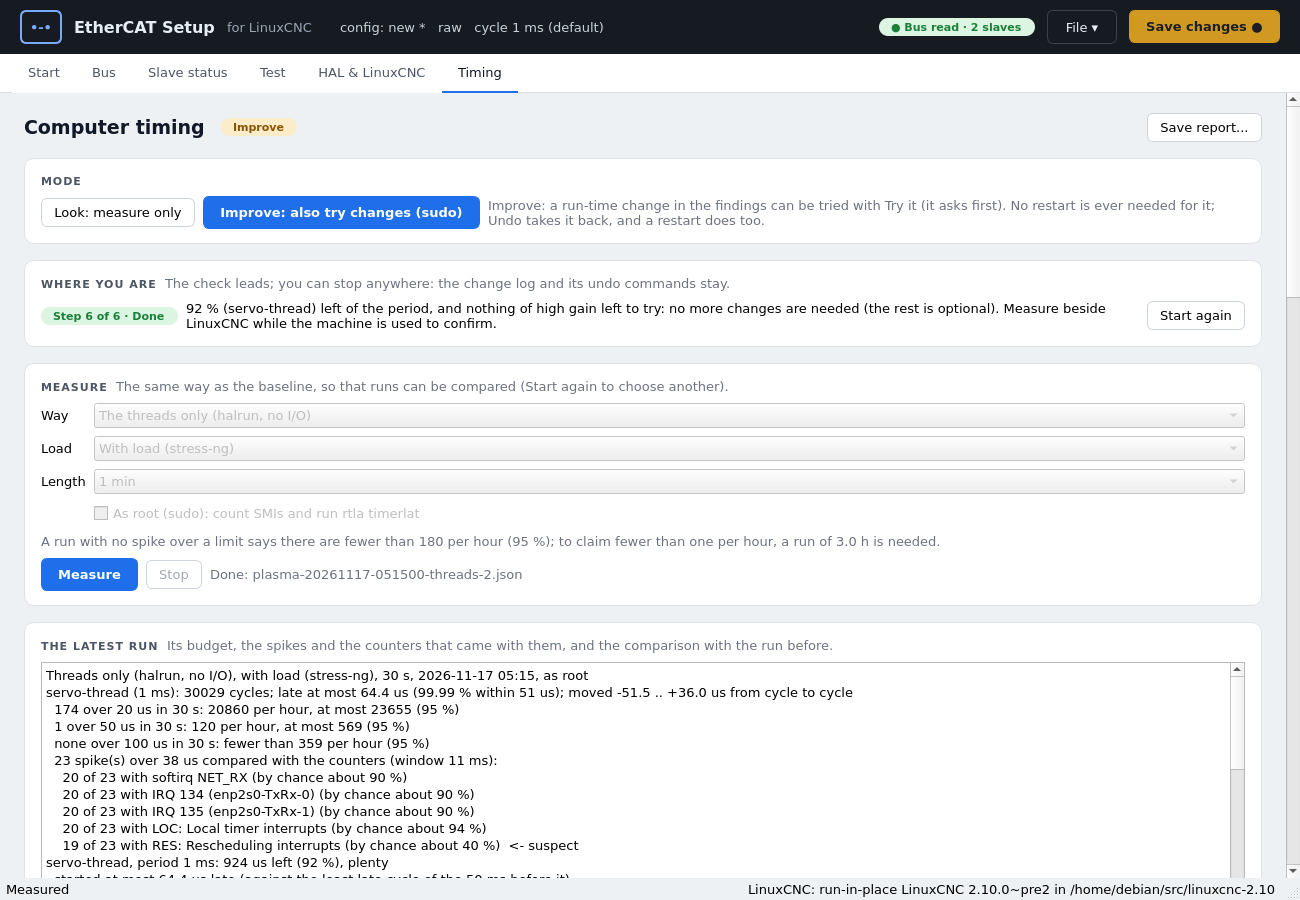
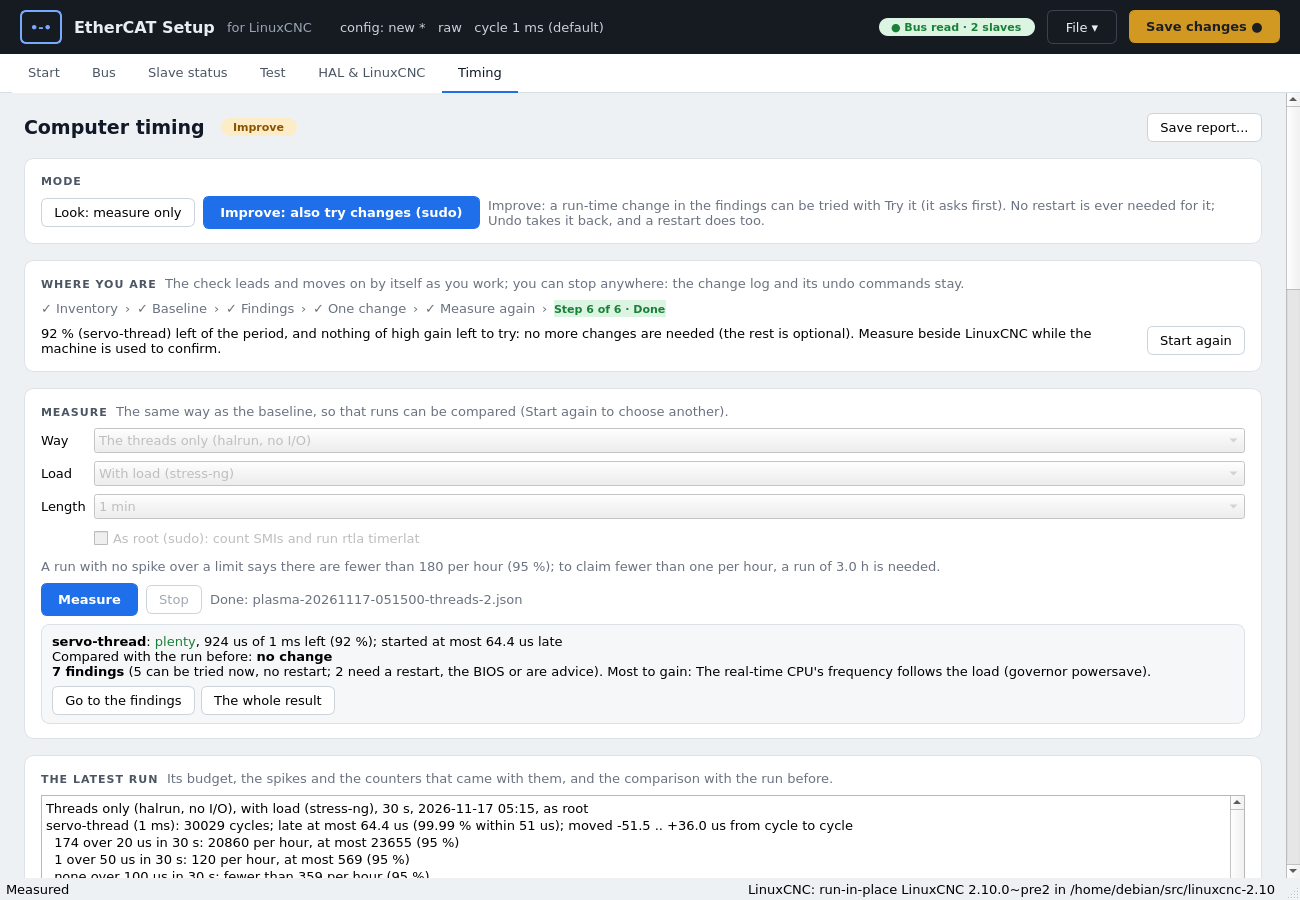
Timing tab: every step shown, a summary under Measure; dark mode check boxes visible
From the user's try on a real screen: black check boxes on the dark cards
could hardly be seen (Fusion fills them with the near-black base colour):
IndicatorStyle draws check boxes and radio buttons with a light edge, and
filled in the accent colour when on, in dark mode only. Where you are now
shows all six steps, the ones done ticked and the present one marked (still
not buttons: the check moves on by itself). A few lines under Measure sum
up the latest run (time left per thread, the comparison, the findings
counted with the one of most gain named) with Go to the findings and The
whole result.

diff --git a/ecatsetup/gui.py b/ecatsetup/gui.py
@@ -25,8 +25,9 @@ import re
 import sys
 import time
 
-from PyQt5.QtCore import QLocale, QSize, QThread, QTimer, Qt, pyqtSignal
-from PyQt5.QtGui import QBrush, QColor, QFont, QFontDatabase, QKeySequence, QPainter, QPalette, QPen
+from PyQt5.QtCore import QLocale, QPointF, QSize, QThread, QTimer, Qt, pyqtSignal
+from PyQt5.QtGui import (QBrush, QColor, QFont, QFontDatabase, QKeySequence, QPainter, QPalette, QPen,
+                         QPolygonF)
 from PyQt5.QtWidgets import (
     QAbstractItemView, QAction, QActionGroup, QApplication, QCheckBox, QComboBox, QDialog,
     QDialogButtonBox,
@@ -34,7 +35,7 @@ from PyQt5.QtWidgets import (
     QFrame, QGridLayout, QHBoxLayout, QHeaderView, QLabel, QLineEdit, QListWidget,
     QListWidgetItem, QMainWindow, QMenu, QMessageBox, QPlainTextEdit, QProgressBar, QPushButton,
     QScrollArea,
-    QSizePolicy, QSpinBox, QStackedWidget, QStyledItemDelegate, QTabBar, QTableWidget,
+    QProxyStyle, QSizePolicy, QSpinBox, QStackedWidget, QStyle, QStyledItemDelegate, QTabBar, QTableWidget,
     QTableWidgetItem, QToolButton, QVBoxLayout, QWidget, QCompleter)
 
 from . import (config, dcinfo, diagnose, drivetest, esi, events, fromlcec, guidance, halcheck, halpins, homing,
@@ -98,6 +99,7 @@ QFrame#nav QTabBar::tab {{ background: {surface}; padding: 10px 16px; border: no
               border-bottom: 2px solid transparent; color: {text2}; }}
 QFrame#nav QTabBar::tab:selected {{ border-bottom: 2px solid {accent}; color: {text1}; }}
 QFrame#card {{ background: {surface}; border: 1px solid {border}; border-radius: 10px; }}
+QFrame#summaryBox {{ background: {greycard}; border: 1px solid {border}; border-radius: 8px; }}
 QFrame#card[tone="red"] {{ border: 1px solid {redborder}; background: {redcard}; }}
 QFrame#card[tone="amber"] {{ border: 1px solid {amberborder}; background: {ambercard}; }}
 QFrame#card[tone="grey"] {{ background: {greycard}; }}
@@ -189,8 +191,10 @@ def apply_theme(theme):
     if _default_style is None:
         _default_style = (app.style().objectName(), QPalette(app.palette()))
     want = _default_style[0] if theme == "light" else "fusion"
-    if app.style().objectName().lower() != want.lower():
-        app.setStyle(QStyleFactory.create(want) or app.style())
+    proxied = isinstance(app.style(), IndicatorStyle)
+    if app.style().objectName().lower() != want.lower() or proxied != (theme == "dark"):
+        base = QStyleFactory.create(want) or QStyleFactory.create(app.style().objectName())
+        app.setStyle(IndicatorStyle(base) if theme == "dark" else base)
     if theme == "light":
         app.setPalette(_default_style[1])     # as the window was before any mode
         return
@@ -212,6 +216,60 @@ def apply_theme(theme):
     for role in (QPalette.WindowText, QPalette.Text, QPalette.ButtonText):
         pal.setColor(QPalette.Disabled, role, QColor(c["disabled"]))
     app.setPalette(pal)
+
+
+class IndicatorStyle(QProxyStyle):
+    """Fusion with check boxes and radio buttons that show on a dark
+    surface: Fusion fills them with the base colour (near black) and draws
+    their edge darker than the window, so on the dark cards they were black
+    on dark grey. Light mode keeps the platform's own."""
+
+    def __init__(self, base):
+        super().__init__(base)
+        self.setObjectName(base.objectName())
+
+    def drawPrimitive(self, element, option, painter, widget=None):
+        if element not in (QStyle.PE_IndicatorCheckBox, QStyle.PE_IndicatorRadioButton,
+                           QStyle.PE_IndicatorItemViewItemCheck):
+            return super().drawPrimitive(element, option, painter, widget)
+        c = THEMES["dark"]
+        on = bool(option.state & QStyle.State_On)
+        partly = bool(option.state & QStyle.State_NoChange)
+        enabled = bool(option.state & QStyle.State_Enabled)
+        r = option.rect.adjusted(1, 1, -1, -1)
+        side = min(r.width(), r.height())
+        r.setSize(QSize(side, side))
+        r.moveCenter(option.rect.center())
+        painter.save()
+        painter.setRenderHint(QPainter.Antialiasing)
+        edge = QColor(c["text3"] if enabled else c["boxborder"])
+        fill = QColor(c["accent"] if (on or partly) and enabled else
+                      c["accentdis"] if (on or partly) else c["hover"])
+        if on or partly:
+            edge = fill
+        elif option.state & QStyle.State_MouseOver and enabled:
+            edge = QColor(c["text2"])
+        painter.setPen(QPen(edge, 1.5))
+        painter.setBrush(fill)
+        if element == QStyle.PE_IndicatorRadioButton:
+            painter.drawEllipse(r)
+            if on:
+                painter.setPen(Qt.NoPen)
+                painter.setBrush(QColor("#ffffff"))
+                d = side * 0.36
+                painter.drawEllipse(r.center(), d / 2 + 0.5, d / 2 + 0.5)
+        else:
+            painter.drawRoundedRect(r, 3, 3)
+            painter.setPen(QPen(QColor("#ffffff"), max(1.6, side / 8.0), Qt.SolidLine, Qt.RoundCap,
+                                Qt.RoundJoin))
+            x, y, w = r.x(), r.y(), float(side)
+            if partly:
+                painter.drawLine(QPointF(x + w * 0.25, y + w * 0.5), QPointF(x + w * 0.75, y + w * 0.5))
+            elif on:
+                painter.drawPolyline(QPolygonF([QPointF(x + w * 0.24, y + w * 0.52),
+                                                QPointF(x + w * 0.43, y + w * 0.70),
+                                                QPointF(x + w * 0.77, y + w * 0.31)]))
+        painter.restore()
 
 
 _MONO = []
@@ -6027,7 +6085,8 @@ class TimingPage(QWidget):
         outer.setContentsMargins(0, 0, 0, 0)
         content = QWidget()
         lay = page_layout(content)
-        outer.addWidget(scroll(content))
+        self.scroller = scroll(content)
+        outer.addWidget(self.scroller)
 
         row = QHBoxLayout()
         row.addWidget(label("Computer timing", "bigTitle"))
@@ -6062,11 +6121,23 @@ class TimingPage(QWidget):
         lay.addWidget(self.mode_card)
 
         # where the work is
-        self.step_card = Card("Where you are", "The check leads; you can stop anywhere: the change "
-                              "log and its undo commands stay.")
+        self.step_card = Card("Where you are", "The check leads and moves on by itself as you work; "
+                              "you can stop anywhere: the change log and its undo commands stay.")
+        # every step in order, the present one marked; they only show, they are not buttons
+        from . import rtflow
+        strip = QHBoxLayout()
+        strip.setSpacing(6)
+        self.step_labels = []
+        for n, name in enumerate(rtflow.STEPS):
+            if n:
+                strip.addWidget(label("\u203a", "hint"))
+            lab = label("%d %s" % (n + 1, name), "hint")
+            self.step_labels.append(lab)
+            strip.addWidget(lab)
+        strip.addStretch(1)
+        self.step_card.add(strip)
+        self.step_pill = self.step_labels[0]
         srow = QHBoxLayout()
-        self.step_pill = pill("", "blue")
-        srow.addWidget(self.step_pill)
         self.step_text = label("", wrap=True)
         srow.addWidget(self.step_text, 1)
         self.keep_button = QPushButton("Keep the change")
@@ -6115,6 +6186,25 @@ class TimingPage(QWidget):
         self.progress = label("", "hint", wrap=True)
         mrow.addWidget(self.progress, 1)
         self.measure_card.add(mrow)
+        # the latest run in a few lines, and where its findings are
+        self.summary = QFrame()
+        self.summary.setObjectName("summaryBox")
+        sl = QVBoxLayout(self.summary)
+        sl.setContentsMargins(10, 8, 10, 8)
+        self.summary_text = label("", wrap=True)
+        self.summary_text.setTextFormat(Qt.RichText)
+        sl.addWidget(self.summary_text)
+        grow = QHBoxLayout()
+        self.goto_findings = QPushButton("Go to the findings")
+        self.goto_findings.clicked.connect(lambda: self.scroller.ensureWidgetVisible(self.find_card, 0, 0))
+        grow.addWidget(self.goto_findings)
+        self.goto_result = QPushButton("The whole result")
+        self.goto_result.clicked.connect(lambda: self.scroller.ensureWidgetVisible(self.result_card, 0, 0))
+        grow.addWidget(self.goto_result)
+        grow.addStretch(1)
+        sl.addLayout(grow)
+        self.summary.hide()
+        self.measure_card.add(self.summary)
         lay.addWidget(self.measure_card)
 
         # the result
@@ -6229,8 +6319,20 @@ class TimingPage(QWidget):
             "run-time change with one press.")
 
         step, text = f.step()
-        set_pill(self.step_pill, "Step %d of %d · %s" % (step + 1, len(rtflow.STEPS), rtflow.STEPS[step]),
-                 "green" if step == 5 else "blue")
+        for n, lab in enumerate(self.step_labels):
+            name = rtflow.STEPS[n]
+            if n == step:
+                lab.setObjectName("")
+                set_pill(lab, "Step %d of %d · %s" % (n + 1, len(rtflow.STEPS), name),
+                         "green" if step == 5 else "blue")
+            else:
+                lab.setText("\u2713 %s" % name if n < step else "%d %s" % (n + 1, name))
+                lab.setProperty("pill", None)
+                lab.setObjectName("hint")
+                restyle(lab)
+            lab.setToolTip("Where the check is now." if n == step else "Done." if n < step
+                           else "Comes later; the check moves on by itself.")
+        self.step_pill = self.step_labels[step]
         self.step_text.setText(text)
         ch = f.log.find(f.pending) if f.pending else None
         self.keep_button.setVisible(ch is not None)
@@ -6268,7 +6370,45 @@ class TimingPage(QWidget):
             text += "\n\n" + rtflow.comparison_text(*self.last_result)
         self.result.setPlainText(text)
         self.show_findings()
+        self.show_summary(latest)
         self.show_changes()
+
+    def show_summary(self, latest):
+        """Under Measure: the latest run's budget per thread, the comparison
+        with the run before, and how many findings there are, with the most
+        to gain named."""
+        from html import escape
+        from .rtcheck import period_text
+        if latest is None:
+            self.summary.hide()
+            return
+        lines = []
+        for b in latest.budgets():
+            colour = RED if b.share_left < 0.2 else AMBER if b.share_left < 0.5 else GREEN
+            lines.append("<b>%s</b>: <span style='color:%s'>%s</span>, %.0f us of %s left (%.0f %%); "
+                         "started at most %.1f us late" % (
+                             escape(b.thread), colour.name(), escape(b.verdict()), b.left_us,
+                             escape(period_text(b.period)), 100 * b.share_left, b.late_us))
+        if not lines:
+            lines.append("No cycles were recorded.")
+        if self.last_result:
+            lines.append("Compared with the run before: <b>%s</b>" % escape(self.last_result[1]))
+        found, _ = self.flow.findings()
+        if found:
+            now = [x for x in found if x.kind == "runtime" and x.commands]
+            later = len(found) - len(now)
+            parts = []
+            if now:
+                parts.append("%d can be tried now, no restart" % len(now))
+            if later:
+                parts.append("%d need a restart, the BIOS or are advice" % later)
+            lines.append("<b>%d finding%s</b> (%s). Most to gain: %s." % (
+                len(found), "" if len(found) == 1 else "s", "; ".join(parts), escape(found[0].title)))
+        else:
+            lines.append("No finding: no rule applies to this run.")
+        self.summary_text.setText("<br>".join(lines))
+        self.goto_findings.setVisible(bool(found))
+        self.summary.show()
 
     def show_findings(self):
         for v in self.finding_views:

diff --git a/tests/test_gui.py b/tests/test_gui.py
@@ -286,12 +286,20 @@ class TestTheme(WindowBase):
             self.assertEqual(self.app.palette().color(gui.QPalette.Window).name(),
                              gui.THEMES["dark"]["bg"])
             self.assertEqual(gui.settings.load()["theme"], "dark")
+            # check boxes are drawn so that they show on the dark cards
+            self.assertIsInstance(self.app.style(), gui.IndicatorStyle)
+            box = gui.QCheckBox("x")
+            box.resize(60, 24)
+            img = box.grab().toImage()
+            colours = {img.pixelColor(x, y).name() for x in range(16) for y in range(img.height())}
+            self.assertTrue(any(gui.QColor(c).lightness() > 100 for c in colours), colours)
             w2 = self.window()
             self.assertEqual(w2.theme, "dark")
             self.assertTrue(w2.a_theme["dark"].isChecked())
             w2.a_theme["light"].trigger()
             self.assertEqual(gui.RED.name(), gui.THEMES["light"]["red"])
             self.assertEqual(gui.settings.load()["theme"], "light")
+            self.assertNotIsInstance(self.app.style(), gui.IndicatorStyle)
 
     def test_every_token_in_both(self):
         self.assertEqual(set(gui.THEMES["light"]), set(gui.THEMES["dark"]))
@@ -1994,12 +2002,30 @@ class TestTimingPage(WindowBase):
         tp.refresh()
         self.assertIn("Baseline", tp.step_pill.text())
         self.assertTrue(tp.step_pill.isVisibleTo(tp))
+        # every step shows, the ones done ticked, only the present one a pill
+        self.assertEqual([lab.text() for lab in tp.step_labels],
+                         ["\u2713 Inventory", "Step 2 of 6 \u00b7 Baseline", "3 Findings", "4 One change",
+                          "5 Measure again", "6 Done"])
+        self.assertEqual([lab.property("pill") for lab in tp.step_labels],
+                         [None, "blue", None, None, None, None])
+        self.assertFalse(tp.summary.isVisibleTo(tp))           # no run yet
         self.assertGreater(tp.inv_table.rowCount(), 10)
         self.assertTrue(tp.measure_button.isEnabled())
         self.assertFalse(tp.root.isEnabled())               # sudo would ask for a password
         self.add_run(tp, 600, "b1.json")
         self.add_run(tp, 610, "b2.json")
         self.assertIn("Findings", tp.step_pill.text())
+        self.assertIs(tp.step_pill, tp.step_labels[2])
+        self.assertEqual(tp.step_labels[1].text(), "\u2713 Baseline")
+        # under Measure: the run in short, and the findings counted with the first named
+        self.assertTrue(tp.summary.isVisibleTo(tp))
+        found, _ = tp.flow.findings()
+        summary = tp.summary_text.text()
+        self.assertIn("servo-thread", summary)
+        self.assertIn("<b>%d findings</b>" % len(found), summary)
+        self.assertIn("Most to gain: %s" % found[0].title, summary)
+        self.assertIn("Compared with the run before", summary)
+        self.assertTrue(tp.goto_findings.isVisibleTo(tp))
         # the way is the baseline's from now on
         self.assertFalse(tp.load.isEnabled())
         self.assertIn("late at most", tp.result.toPlainText())

diff --git a/docs/ecatsetup.md b/docs/ecatsetup.md
@@ -1956,7 +1956,13 @@ The *Timing* tab checks whether the computer keeps time well enough for the
 machine, for any LinuxCNC computer (EtherCAT, Mesa Ethernet, a parallel
 port): how late the real-time threads start, what comes with the late
 cycles, and what to change. It leads you through the work in steps, shown at
-the top (*Where you are*), and says when it is done.
+the top (*Where you are*: every step in order, the ones done ticked, the
+present one marked; the check moves on by itself, the steps are not buttons),
+and says when it is done. When a run is done, a few lines under *Measure* sum
+it up: per thread how much of the period is left and how late it started,
+better or worse than the run before, and how many findings there are, which
+can be tried at once and which has the most to gain; *Go to the findings*
+and *The whole result* lead to the rest.
 
 ![The Timing tab after two baseline runs, in Improve mode](images/gui-timing.png)
 
